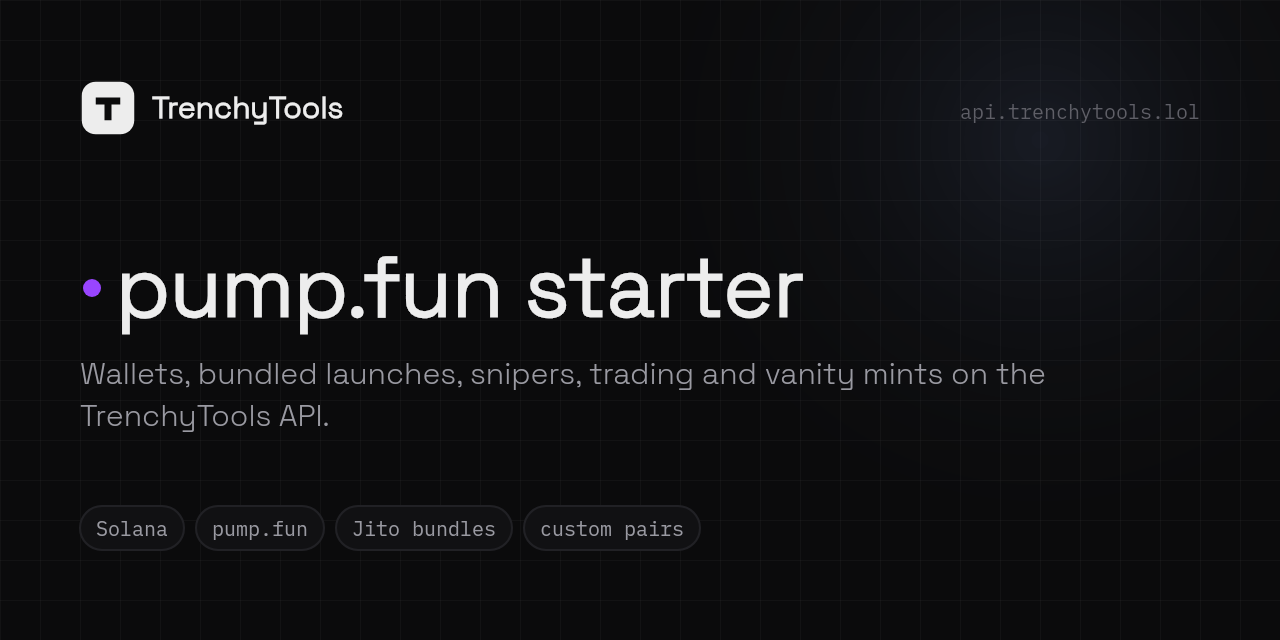
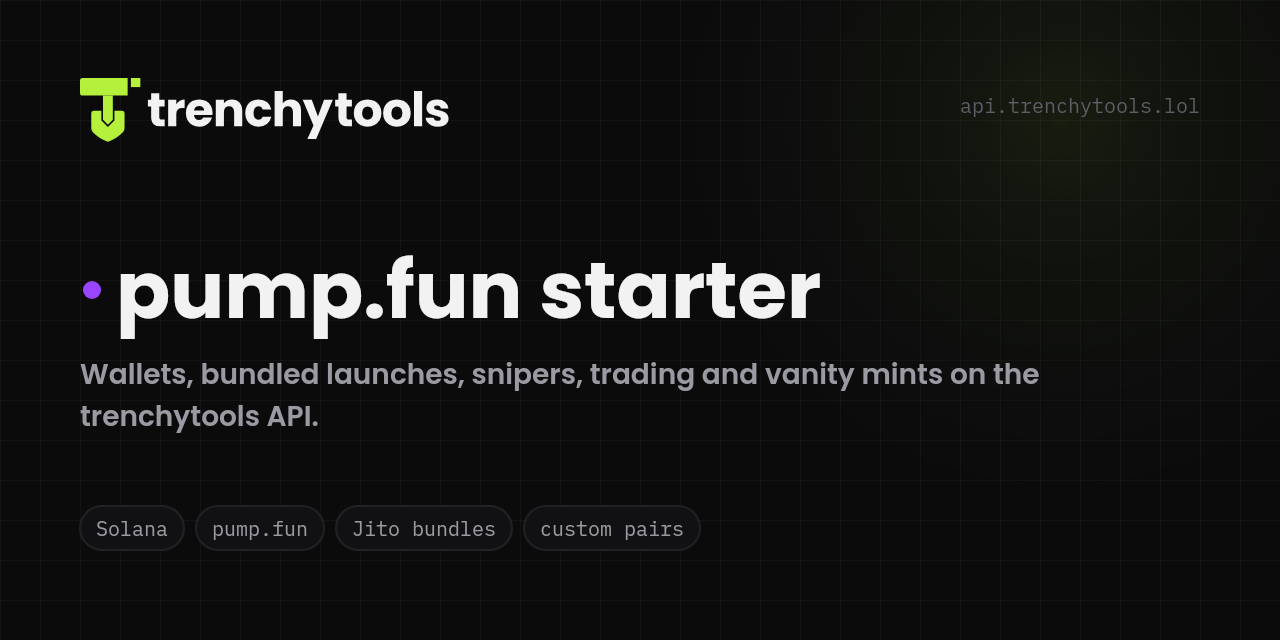
Release from trenchytools@dbb1f53

diff --git a/components/logo.tsx b/components/logo.tsx
@@ -1,21 +1,37 @@
 import { cn } from "@/lib/cn"
 
-/** The TrenchyTools mark (apps/docs/apps/web/components/logo.tsx). */
-export function LogoMark({ className }: { className?: string }) {
+/**
+ * The trenchytools mark: a T that is also a shovel (digging in the trenches), with a pixel breaking off the handle.
+ * Generated from brand/paths.json (brand kit in the trenchytools monorepo); the lime is the brand colour and stays
+ * the same in light and dark mode. `small` drops the pixel for sizes under ~32 px.
+ */
+export function LogoMark({ className, small = false }: { className?: string; small?: boolean }) {
   return (
-    <svg viewBox="0 0 32 32" aria-hidden className={cn("size-5 shrink-0", className)}>
-      <rect x="1" y="1" width="30" height="30" rx="8" className="fill-foreground" />
-      <path d="M9 10h14v4h-5v9h-4v-9H9z" className="fill-background" />
+    <svg viewBox="0 0 332 352" aria-hidden className={cn("h-5 w-auto shrink-0", className)} fill="#B4F03C">
+      <path d="M14 0H262V96H14A14 14 0 0 1 0 82V14A14 14 0 0 1 14 0Z" />
+      {!small && <path d="M280 0H332V50H280Z" />}
+      <path d="M126.5 96H180.5V230L153.5 257L126.5 230Z" />
+      <path d="M76 180H117.5V233.73L153.5 269.73L189.5 233.73V180H231A14 14 0 0 1 245 194V276C245 300 205 328 160.5 348.5Q153.5 352 146.5 348.5C102 328 62 300 62 276V194A14 14 0 0 1 76 180Z" />
     </svg>
   )
 }
 
+/** The wordmark "trenchytools" as outlines (Poppins Bold), in the current text colour. */
+export function Wordmark({ className }: { className?: string }) {
+  return (
+    <svg viewBox="366 0 1669 352" role="img" aria-label="trenchytools" className={cn("h-5 w-auto shrink-0", className)} fill="currentColor">
+      <path d="M449.74 228.01L465.73 228.01L465.73 266L442.93 266Q418.57 266 404.94 254.08Q391.32 242.16 391.32 215.17L391.32 215.17L391.32 157.01L373.50 157.01L373.50 119.80L391.32 119.80L391.32 84.17L436.12 84.17L436.12 119.80L465.46 119.80L465.46 157.01L436.12 157.01L436.12 215.70Q436.12 222.25 439.26 225.13Q442.41 228.01 449.74 228.01L449.74 228.01ZM529.65 144.17Q537.51 132.12 549.30 125.17Q561.09 118.23 575.50 118.23L575.50 118.23L575.50 165.65L563.19 165.65Q546.42 165.65 538.04 172.86Q529.65 180.06 529.65 198.14L529.65 198.14L529.65 266L484.85 266L484.85 119.80L529.65 119.80L529.65 144.17ZM729.04 190.54Q729.04 196.83 728.25 203.64L728.25 203.64L626.86 203.64Q627.90 217.27 635.63 224.47Q643.36 231.68 654.63 231.68L654.63 231.68Q671.40 231.68 677.95 217.53L677.95 217.53L725.63 217.53Q721.96 231.94 712.40 243.47Q702.84 255.00 688.43 261.55Q674.02 268.10 656.20 268.10L656.20 268.10Q634.72 268.10 617.95 258.93Q601.18 249.76 591.75 232.73Q582.32 215.70 582.32 192.90L582.32 192.90Q582.32 170.11 591.62 153.08Q600.92 136.05 617.69 126.88Q634.45 117.71 656.20 117.71L656.20 117.71Q677.42 117.71 693.93 126.62Q710.43 135.52 719.74 152.03Q729.04 168.54 729.04 190.54L729.04 190.54ZM627.12 178.75L683.19 178.75Q683.19 167.23 675.33 160.41Q667.47 153.60 655.68 153.60L655.68 153.60Q644.41 153.60 636.68 160.15Q628.95 166.70 627.12 178.75L627.12 178.75ZM835.93 118.23Q861.61 118.23 876.93 134.87Q892.26 151.51 892.26 180.59L892.26 180.59L892.26 266L847.72 266L847.72 186.61Q847.72 171.94 840.12 163.82Q832.53 155.70 819.69 155.70L819.69 155.70Q806.85 155.70 799.25 163.82Q791.65 171.94 791.65 186.61L791.65 186.61L791.65 266L746.85 266L746.85 119.80L791.65 119.80L791.65 139.19Q798.47 129.50 809.99 123.86Q821.52 118.23 835.93 118.23L835.93 118.23ZM908.77 192.90Q908.77 170.11 918.07 153.08Q927.37 136.05 944.01 126.88Q960.64 117.71 982.13 117.71L982.13 117.71Q1009.64 117.71 1028.11 132.12Q1046.58 146.53 1052.34 172.73L1052.34 172.73L1004.66 172.73Q998.63 155.96 981.34 155.96L981.34 155.96Q969.03 155.96 961.69 165.52Q954.36 175.09 954.36 192.90L954.36 192.90Q954.36 210.72 961.69 220.28Q969.03 229.84 981.34 229.84L981.34 229.84Q998.63 229.84 1004.66 213.08L1004.66 213.08L1052.34 213.08Q1046.58 238.75 1027.98 253.42Q1009.38 268.10 982.13 268.10L982.13 268.10Q960.64 268.10 944.01 258.93Q927.37 249.76 918.07 232.73Q908.77 215.70 908.77 192.90L908.77 192.90ZM1160.29 118.23Q1185.44 118.23 1200.64 134.87Q1215.83 151.51 1215.83 180.59L1215.83 180.59L1215.83 266L1171.29 266L1171.29 186.61Q1171.29 171.94 1163.69 163.82Q1156.10 155.70 1143.26 155.70L1143.26 155.70Q1130.42 155.70 1122.82 163.82Q1115.22 171.94 1115.22 186.61L1115.22 186.61L1115.22 266L1070.42 266L1070.42 72.12L1115.22 72.12L1115.22 139.45Q1122.04 129.76 1133.83 124.00Q1145.62 118.23 1160.29 118.23L1160.29 118.23ZM1342.12 119.80L1390.59 119.80L1298.89 335.43L1250.68 335.43L1284.21 261.02L1224.74 119.80L1274.78 119.80L1308.58 211.24L1342.12 119.80ZM1479.67 228.01L1495.65 228.01L1495.65 266L1472.85 266Q1448.49 266 1434.86 254.08Q1421.24 242.16 1421.24 215.17L1421.24 215.17L1421.24 157.01L1403.42 157.01L1403.42 119.80L1421.24 119.80L1421.24 84.17L1466.04 84.17L1466.04 119.80L1495.39 119.80L1495.39 157.01L1466.04 157.01L1466.04 215.70Q1466.04 222.25 1469.19 225.13Q1472.33 228.01 1479.67 228.01L1479.67 228.01ZM1581.32 268.10Q1559.84 268.10 1542.68 258.93Q1525.52 249.76 1515.69 232.73Q1505.87 215.70 1505.87 192.90L1505.87 192.90Q1505.87 170.37 1515.82 153.21Q1525.78 136.05 1543.07 126.88Q1560.36 117.71 1581.85 117.71L1581.85 117.71Q1603.33 117.71 1620.62 126.88Q1637.91 136.05 1647.87 153.21Q1657.83 170.37 1657.83 192.90L1657.83 192.90Q1657.83 215.43 1647.74 232.59Q1637.65 249.76 1620.23 258.93Q1602.81 268.10 1581.32 268.10L1581.32 268.10ZM1581.32 229.32Q1594.16 229.32 1603.20 219.89Q1612.24 210.46 1612.24 192.90L1612.24 192.90Q1612.24 175.35 1603.46 165.92Q1594.68 156.48 1581.85 156.48L1581.85 156.48Q1568.75 156.48 1560.10 165.78Q1551.45 175.09 1551.45 192.90L1551.45 192.90Q1551.45 210.46 1559.97 219.89Q1568.48 229.32 1581.32 229.32L1581.32 229.32ZM1742.45 268.10Q1720.97 268.10 1703.81 258.93Q1686.65 249.76 1676.82 232.73Q1667.00 215.70 1667.00 192.90L1667.00 192.90Q1667.00 170.37 1676.95 153.21Q1686.91 136.05 1704.20 126.88Q1721.49 117.71 1742.98 117.71L1742.98 117.71Q1764.46 117.71 1781.75 126.88Q1799.04 136.05 1809.00 153.21Q1818.96 170.37 1818.96 192.90L1818.96 192.90Q1818.96 215.43 1808.87 232.59Q1798.78 249.76 1781.36 258.93Q1763.94 268.10 1742.45 268.10L1742.45 268.10ZM1742.45 229.32Q1755.29 229.32 1764.33 219.89Q1773.37 210.46 1773.37 192.90L1773.37 192.90Q1773.37 175.35 1764.59 165.92Q1755.81 156.48 1742.98 156.48L1742.98 156.48Q1729.88 156.48 1721.23 165.78Q1712.58 175.09 1712.58 192.90L1712.58 192.90Q1712.58 210.46 1721.10 219.89Q1729.61 229.32 1742.45 229.32L1742.45 229.32ZM1837.03 72.12L1881.84 72.12L1881.84 266L1837.03 266L1837.03 72.12ZM1968.03 268.10Q1948.91 268.10 1933.97 261.55Q1919.04 255.00 1910.39 243.60Q1901.75 232.20 1900.70 218.05L1900.70 218.05L1944.98 218.05Q1945.76 225.65 1952.05 230.37Q1958.34 235.08 1967.51 235.08L1967.51 235.08Q1975.89 235.08 1980.48 231.81Q1985.06 228.53 1985.06 223.29L1985.06 223.29Q1985.06 217.01 1978.51 213.99Q1971.96 210.98 1957.29 207.31L1957.29 207.31Q1941.57 203.64 1931.09 199.58Q1920.61 195.52 1913.01 186.75Q1905.42 177.97 1905.42 163.03L1905.42 163.03Q1905.42 150.46 1912.36 140.11Q1919.30 129.76 1932.80 123.73Q1946.29 117.71 1964.89 117.71L1964.89 117.71Q1992.40 117.71 2008.25 131.33Q2024.10 144.96 2026.46 167.49L2026.46 167.49L1985.06 167.49Q1984.02 159.89 1978.38 155.44Q1972.75 150.98 1963.58 150.98L1963.58 150.98Q1955.72 150.98 1951.53 154.00Q1947.34 157.01 1947.34 162.25L1947.34 162.25Q1947.34 168.54 1954.02 171.68Q1960.70 174.82 1974.85 177.97L1974.85 177.97Q1991.09 182.16 2001.31 186.22Q2011.53 190.28 2019.26 199.32Q2026.98 208.36 2027.25 223.56L2027.25 223.56Q2027.25 236.39 2020.04 246.48Q2012.84 256.57 1999.34 262.33Q1985.85 268.10 1968.03 268.10L1968.03 268.10Z" />
+    </svg>
+  )
+}
+
+/** Mark + wordmark + what this is, used in the header, sidebar and footer. */
 export function Logo({ className }: { className?: string }) {
   return (
-    <span className={cn("inline-flex items-center gap-2 font-semibold tracking-tight", className)}>
-      <LogoMark />
-      TrenchyTools
-      <span className="text-muted-foreground font-normal">pump.fun starter</span>
+    <span className={cn("inline-flex items-center gap-2", className)}>
+      <LogoMark className="h-[22px]" />
+      <Wordmark className="h-[22px]" />
+      <span className="text-muted-foreground text-[0.95em] font-normal">pump.fun starter</span>
     </span>
   )
 }
